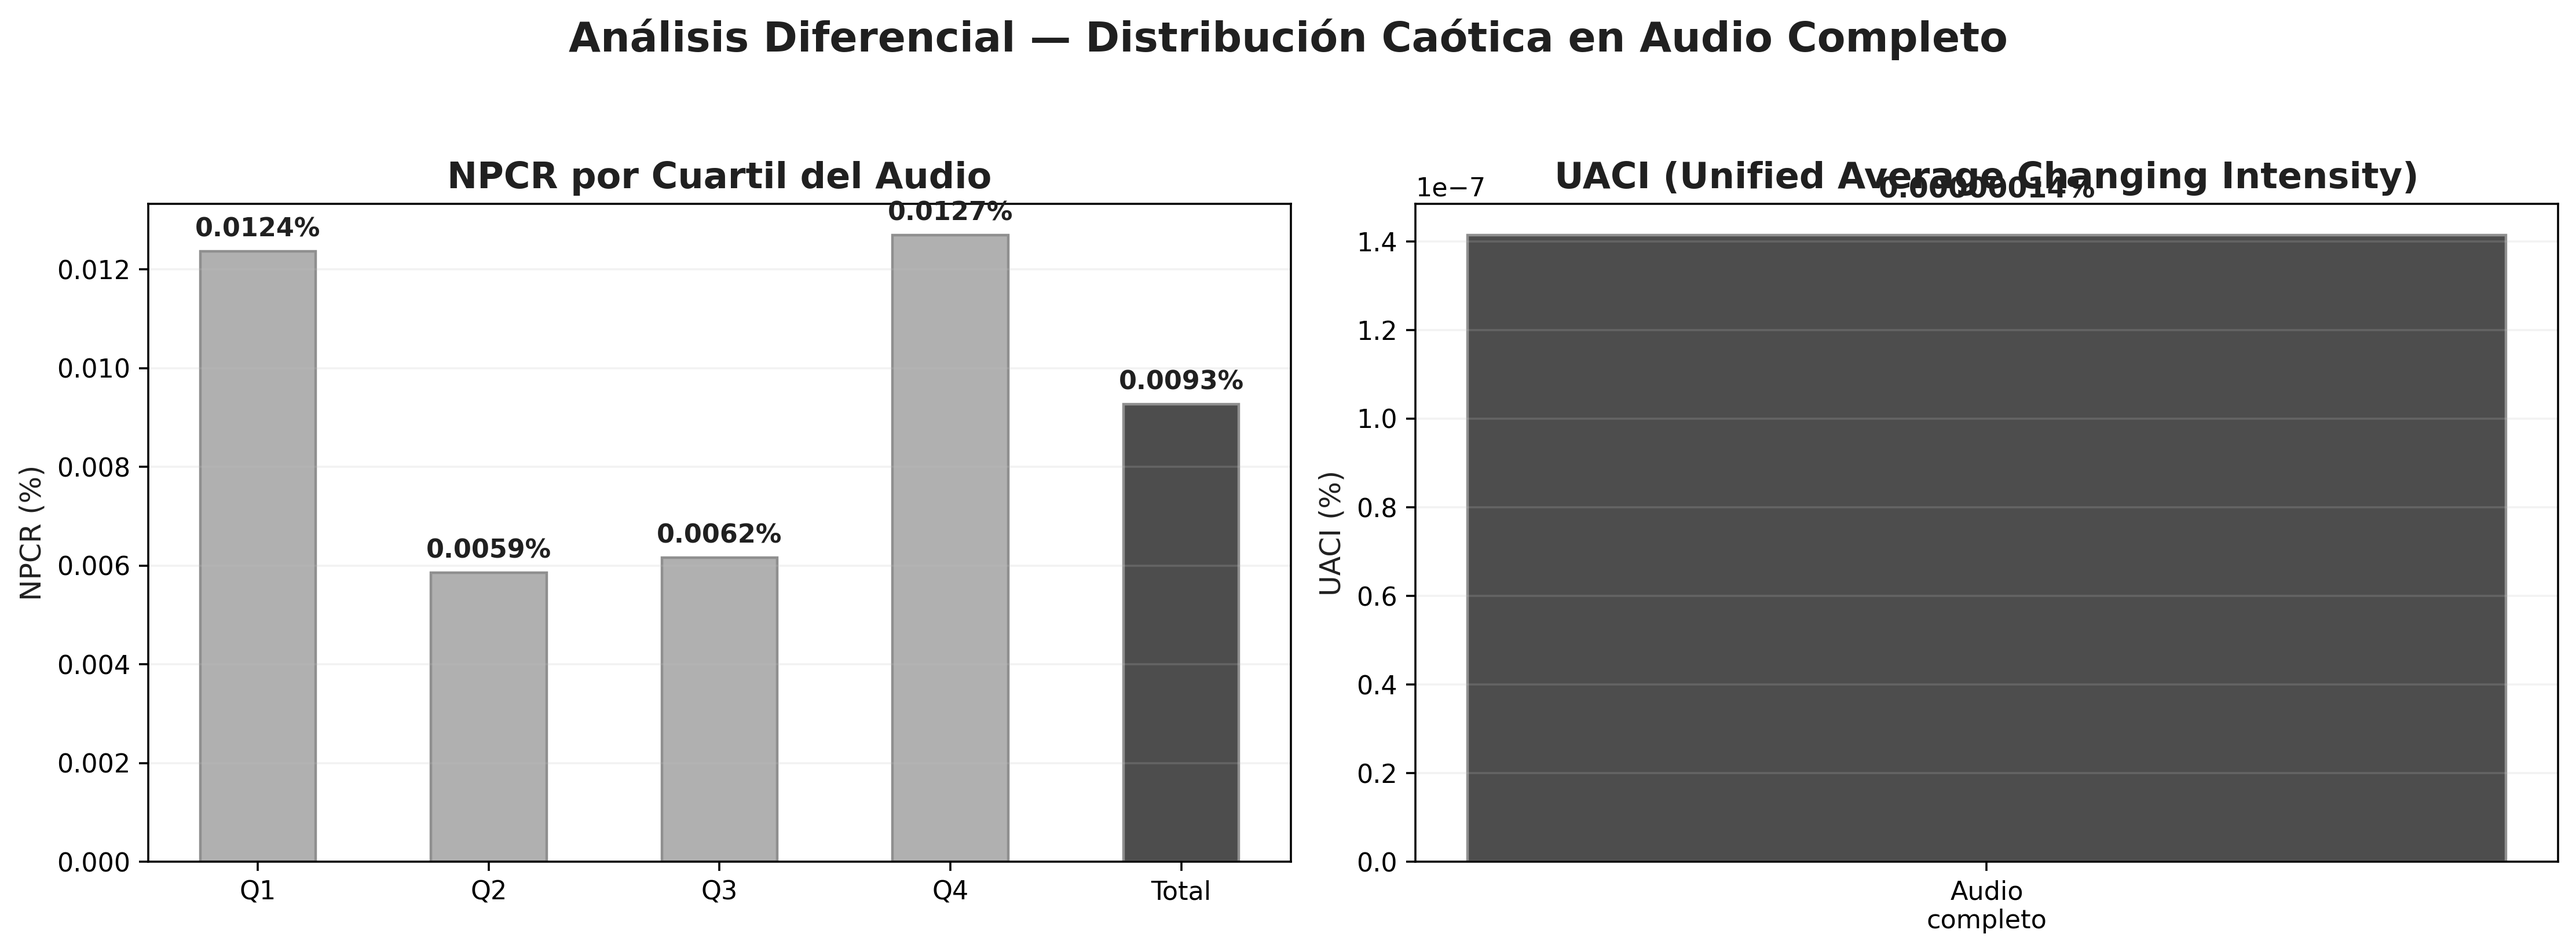
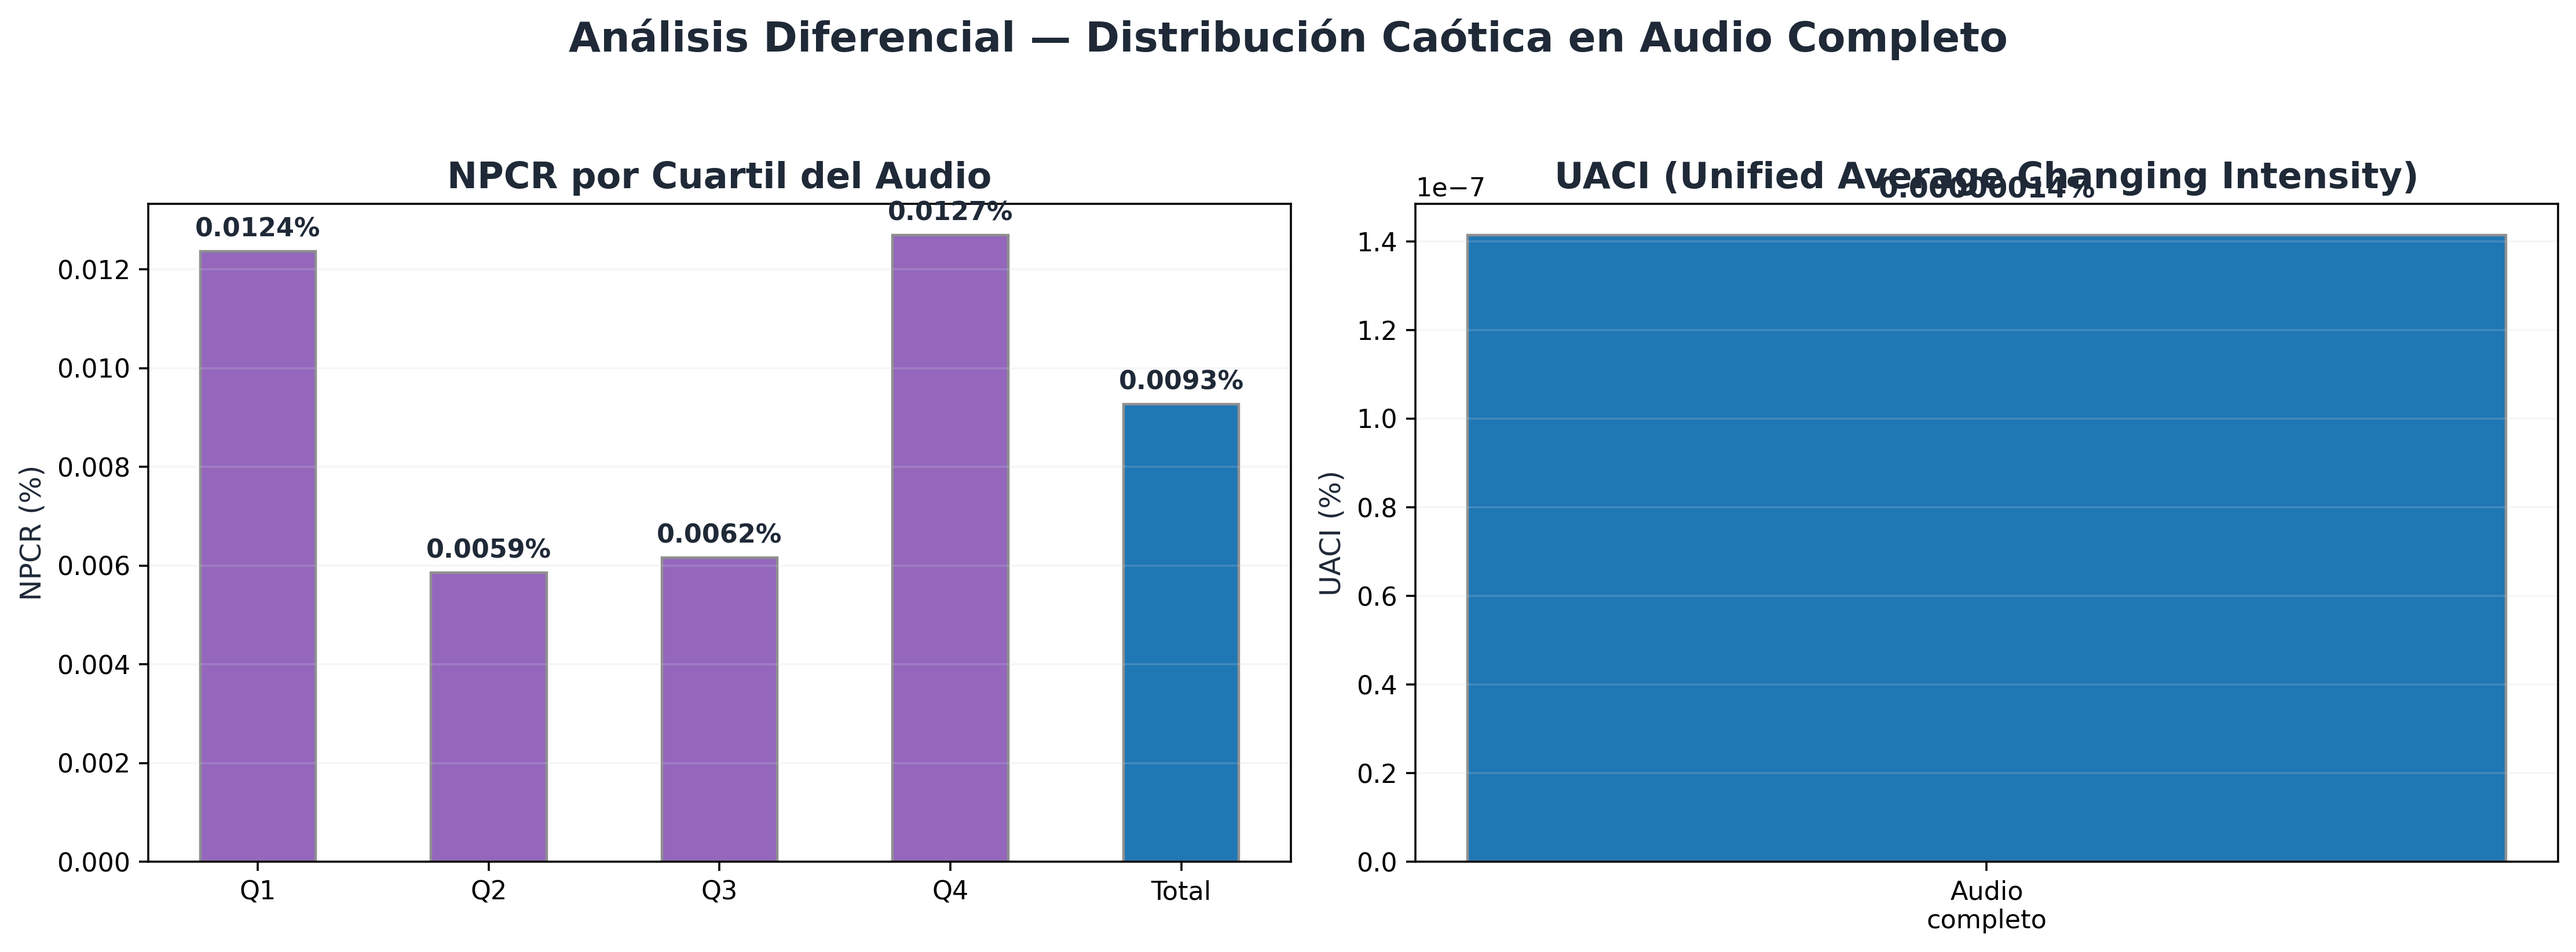
fix(docs): mejorar gráficas a color y añadir valores reales a fórmulas LaTeX

diff --git a/outputs/entrega_profesoras/generar_graficas_tesis.py b/outputs/entrega_profesoras/generar_graficas_tesis.py
@@ -73,8 +73,8 @@ def generar_4_histogramas(salida: Path) -> None:
             11,
         ]
     )
-    color_oscuro = "#5f5f5f"
-    color_medio = "#8c8c8c"
+    color_oscuro = "#1f77b4"
+    color_medio = "#ff7f0e"
     axes[0].bar(bins, irregular, color=color_oscuro, edgecolor="#3a3a3a", linewidth=0.4)
     axes[0].set_title("texto comprimido", loc="left")
     axes[0].set_xlabel("Símbolo/byte")
@@ -96,8 +96,8 @@ def generar_4_correlacion(salida: Path) -> None:
     r = np.corrcoef(x, y)[0, 1]
 
     fig, ax = plt.subplots(figsize=(7, 5.5))
-    color_puntos = "#666666"
-    color_linea = "#404040"
+    color_puntos = "#2ca02c"
+    color_linea = "#d62728"
     ax.scatter(x, y, s=20, color=color_puntos, alpha=0.9, label="Pares de muestras")
     ax.plot(
         x,
@@ -136,9 +136,9 @@ def generar_6_efecto_avalancha(salida: Path) -> None:
 
     iteraciones = np.arange(n)
     fig, ax = plt.subplots(figsize=(10, 5))
-    ax.plot(iteraciones, x1, linewidth=1.8, color="#4d4d4d", label="Serie A")
-    ax.plot(iteraciones, x2, linewidth=1.3, color="#8f8f8f", label="Serie B")
-    ax.axvspan(15, 20, color="#bdbdbd", alpha=0.20, label="Zona de divergencia")
+    ax.plot(iteraciones, x1, linewidth=1.8, color="#1f77b4", label="Serie A")
+    ax.plot(iteraciones, x2, linewidth=1.3, color="#ff7f0e", label="Serie B")
+    ax.axvspan(15, 20, color="#2ca02c", alpha=0.15, label="Zona de divergencia")
     ax.set_title("Efecto avalancha: sensibilidad a condiciones iniciales")
     ax.set_xlabel("Iteración")
     ax.set_ylabel("Estado normalizado")
@@ -161,12 +161,12 @@ def generar_7_vista_microscopica_50(salida: Path) -> None:
     modificada[idx_insertados] += deltas
 
     fig, ax = plt.subplots(figsize=(10, 4.8))
-    ax.plot(muestras, original, color="#4f4f4f", linewidth=1.8, label="Señal original")
+    ax.plot(muestras, original, color="#1f77b4", linewidth=1.8, label="Señal original")
     ax.plot(
         idx_insertados,
         modificada[idx_insertados],
         "*",
-        color="#9c9c9c",
+        color="#d62728",
         markersize=11,
         label="Puntos de inyección estocástica",
     )

diff --git a/scripts/generar_analisis_completo.py b/scripts/generar_analisis_completo.py
@@ -48,18 +48,17 @@ X0 = ChaosMod.X0.value  # 0.123456
 R = ChaosMod.R.value  # 3.999952
 N_WARMUP = ChaosMod.N_WARMUP.value  # 100
 
-# Estilo en escala de grises para todas las gráficas
+# Estilo en color para todas las gráficas
 plt.style.use("default")
-plt.rcParams["image.cmap"] = "gray"
 COLORES = {
-    "original": "#4d4d4d",
-    "modificado": "#8f8f8f",
-    "acento": "#b0b0b0",
-    "alerta": "#2f2f2f",
-    "texto": "#202020",
-    "grid": "#c2c2c2",
-    "exito": "#6e6e6e",
-    "fallo": "#a8a8a8",
+    "original": "#1f77b4",
+    "modificado": "#ff7f0e",
+    "acento": "#9467bd",
+    "alerta": "#d62728",
+    "texto": "#1f2937",
+    "grid": "#cbd5e1",
+    "exito": "#2ca02c",
+    "fallo": "#e377c2",
 }
 DPI = 320
 FONT_TITLE = {"fontsize": 14, "fontweight": "bold", "color": COLORES["texto"]}
@@ -882,7 +881,7 @@ def _panel_ataques_con_texto(datos, tipo: str, nombre_archivo: str):
             audio_at = ataque_oclusion(audio, p)
             titulo = f"Oclusión {int(p * 100)}%"
 
-        # "Imagen atacada": mapa de intensidad en escala de grises (más legible)
+        # "Imagen atacada": mapa de intensidad en color
         ax_img = axes[i][0]
         if tipo == "oclusion":
             idx_ataque = np.where((audio_at == 0) & (audio != 0))[0]
@@ -901,7 +900,7 @@ def _panel_ataques_con_texto(datos, tipo: str, nombre_archivo: str):
         muestra = muestra[: filas * cols].reshape(filas, cols)
         im = ax_img.imshow(
             muestra,
-            cmap="gray",
+            cmap="viridis",
             aspect="auto",
             interpolation="nearest",
             vmin=-32768,

diff --git a/outputs/entrega_profesoras/README.md b/outputs/entrega_profesoras/README.md
@@ -73,7 +73,7 @@ Donde:
 El análisis estadístico es fundamental para demostrar la resistencia del algoritmo frente a ataques de criptoanálisis, específicamente el análisis de frecuencias.
 
 ### Análisis de Histogramas
-Para evidenciar la correcta encriptación, se analizan dos distribuciones (figura `4_histogramas.png`, renderizada en escala de grises para impresión y lectura académica):
+Para evidenciar la correcta encriptación, se analizan dos distribuciones (figura `4_histogramas.png`, renderizada en color para mejorar contraste y legibilidad):
 
 ![Histogramas del texto comprimido y encriptado](4_histogramas.png)
 
@@ -102,6 +102,12 @@ $$
 Cov(X,Y)=\frac{1}{N-1}\sum_{i=1}^{N}(x_i-\bar{x})(y_i-\bar{y})
 $$
 
+Con los datos reales de la ejecución actual (audio original vs estegoaudio):
+
+$$
+Cov(X,Y)=65{,}883{,}266.40887324
+$$
+
 - $Cov(X,Y)$: covarianza entre las señales original y esteganografiada.
 - $N$: número total de muestras comparadas.
 - $x_i$: amplitud de la muestra $i$ en la señal original.
@@ -118,6 +124,12 @@ $$
 \rho_{X,Y}=\frac{Cov(X,Y)}{\sigma_X\sigma_Y}
 $$
 
+Sustituyendo con los valores reales de audio original vs estegoaudio:
+
+$$
+\rho=\frac{65{,}883{,}266.40887324}{(8116.85076930908)(8116.85076902388)}=0.9999999999993133\approx 1.0000000000
+$$
+
 - $\rho_{X,Y}$: coeficiente de correlación lineal de Pearson.
 - $Cov(X,Y)$: covarianza entre ambas señales.
 - $\sigma_X$: desviación estándar de la señal original.
@@ -129,6 +141,12 @@ Interpretación: valor normalizado en $[-1,1]$. En este contexto, $\rho$ cercano
 
 $$
 MSE=\frac{1}{MN}\sum_{i=1}^{M}\sum_{j=1}^{N}(I(i,j)-K(i,j))^2
+$$
+
+Resultado numérico real de la ejecución (audio original vs estegoaudio):
+
+$$
+MSE=\frac{1}{N}\sum_{i=1}^{N}(x_i-y_i)^2=9.266789354185121\times10^{-5}\approx0.0000926679
 $$
 
 - $MSE$: error cuadrático medio entre referencia y señal comparada.
@@ -144,6 +162,12 @@ Interpretación: mide energía del error. Mientras más cerca de 0, mayor fideli
 
 $$
 PSNR=10\log_{10}(\frac{MAX_I^2}{MSE})
+$$
+
+Sustituyendo con $MAX_I=32767$ (PCM 16 bits con signo) y el MSE medido:
+
+$$
+PSNR=10\log_{10}\left(\frac{32767^2}{9.266789354185121\times10^{-5}}\right)=130.6394407121\,dB\approx130.64\,dB
 $$
 
 - $PSNR$: relación señal-ruido pico en decibelios.
@@ -269,6 +293,12 @@ $$
 MSE=\frac{1}{MN}\sum_{i=1}^{M}\sum_{j=1}^{N}(I(i,j)-K(i,j))^2
 $$
 
+Para la ejecución actual (audio original vs estegoaudio):
+
+$$
+MSE=\frac{1}{N}\sum_{i=1}^{N}(x_i-y_i)^2=9.266789354185121\times10^{-5}\approx0.0000926679
+$$
+
 - $MSE$: error cuadrático medio.
 - $I(i,j)$: valor de referencia (señal original).
 - $K(i,j)$: valor recuperado/atacado.
@@ -282,6 +312,12 @@ $$
 
 $$
 PSNR=10\log_{10}(\frac{MAX_I^2}{MSE})
+$$
+
+Con $MAX_I=32767$ y el MSE real medido:
+
+$$
+PSNR=10\log_{10}\left(\frac{32767^2}{9.266789354185121\times10^{-5}}\right)=130.6394407121\,dB\approx130.64\,dB
 $$
 
 - $PSNR$: razón señal-ruido pico en dB.
